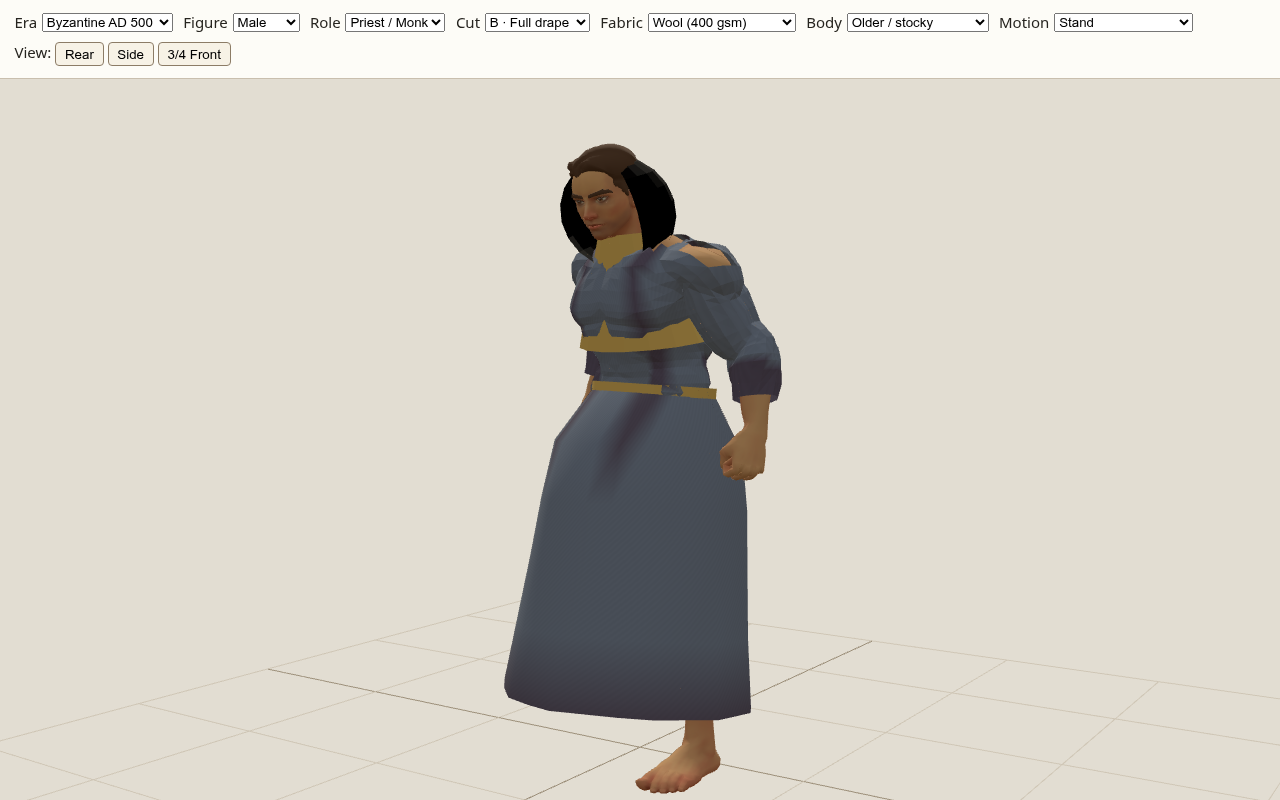
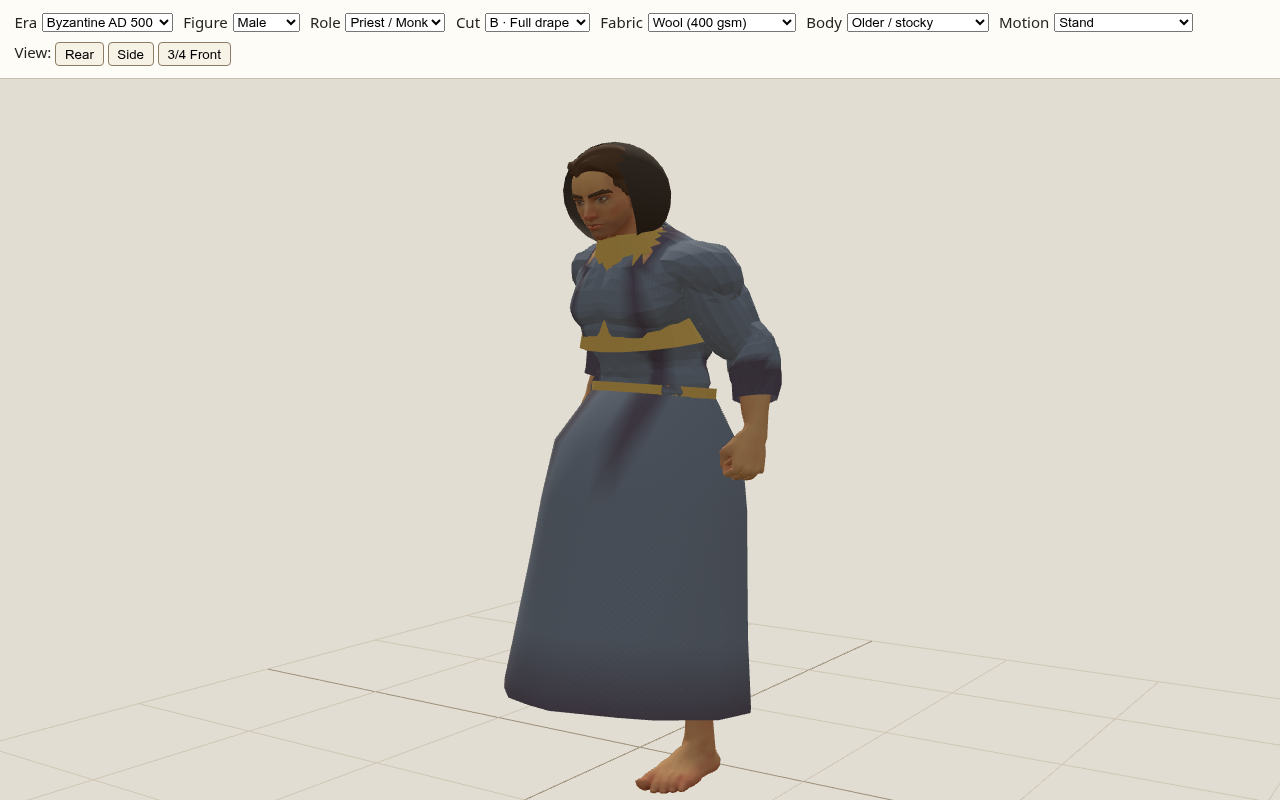
Attach spear, shield, helmet, staff, and monk cowl directly to skeleton bones and close bodice shoulder seams

Changed region(s): [[0.4375, 0.1562, 0.5938, 0.3438]]

diff --git a/src/walk/riggedCitizen.ts b/src/walk/riggedCitizen.ts
@@ -126,8 +126,12 @@ function makeOutfit(body: THREE.SkinnedMesh, era: Era, palette: Palette, gender:
   const keep: number[] = []
   for (let i = 0; i < position.count; i += 3) {
     const y = (position.getY(i) + position.getY(i + 1) + position.getY(i + 2)) / 3
+    const cx = (position.getX(i) + position.getX(i + 1) + position.getX(i + 2)) / 3
+    const cz = (position.getZ(i) + position.getZ(i + 1) + position.getZ(i + 2)) / 3
     const x = Math.max(Math.abs(position.getX(i)), Math.abs(position.getX(i + 1)), Math.abs(position.getX(i + 2)))
-    if (y > height * 0.45 && y < height * 0.845 && x < sleeveSpan) keep.push(i, i + 1, i + 2)
+    // Keep full shoulder coverage up to 0.885*height while opening a clean collar around the neck
+    const inNeck = y > height * 0.835 && Math.hypot(cx, cz) < height * 0.062
+    if (y > height * 0.45 && y < height * 0.885 && x < sleeveSpan && !inNeck) keep.push(i, i + 1, i + 2)
   }
   const top = new THREE.BufferGeometry()
   for (const key of ['position', 'normal', 'skinIndex', 'skinWeight']) {
@@ -177,9 +181,6 @@ function makeOutfit(body: THREE.SkinnedMesh, era: Era, palette: Palette, gender:
   const pelvis = body.skeleton.bones.findIndex(b => b.name === 'pelvis')
   const spine1 = body.skeleton.bones.findIndex(b => b.name === 'spine_01')
   const spine2 = body.skeleton.bones.findIndex(b => b.name === 'spine_02')
-  const headIdx = body.skeleton.bones.findIndex(b => b.name === 'Head')
-  const armL = body.skeleton.bones.findIndex(b => b.name === 'lowerarm_l')
-  const handR = body.skeleton.bones.findIndex(b => b.name === 'hand_r')
   const left = body.skeleton.bones.findIndex(b => b.name === 'thigh_l'), right = body.skeleton.bones.findIndex(b => b.name === 'thigh_r')
   for (let i = 0; i < sp.count; i++) {
     const x = sp.getX(i), y = sp.getY(i), z = sp.getZ(i)
@@ -245,24 +246,43 @@ function makeOutfit(body: THREE.SkinnedMesh, era: Era, palette: Palette, gender:
   const mantle = makeRigidSkinned(mantleGeo, spine2 >= 0 ? spine2 : pelvis, body.skeleton, body.bindMatrix, trim)
 
   // Fitted shoulder cape (paenula / birrus) resting from neck collar over shoulders (pilgrims & Byzantine clergy)
-  const capeGeo = new THREE.CylinderGeometry(waistX * 0.56, waistX * 1.18, height * 0.18, 18, 1, true)
-    .scale(1, 1, 0.82)
-    .translate(0, height * 0.785, centerZ - 0.008)
+  const capeGeo = new THREE.CylinderGeometry(waistX * 0.60, waistX * 1.32, height * 0.16, 18, 1, true)
+    .scale(1.06, 1, 1.15)
+    .translate(0, height * 0.795, centerZ + 0.018)
   const cape = makeRigidSkinned(capeGeo, spine2 >= 0 ? spine2 : pelvis, body.skeleton, body.bindMatrix, trim)
 
-  // Open-front head veil / monastic cowl: covers crown, back, and temples while keeping the face (+Z) completely open
-  const veilGeo = new THREE.SphereGeometry(height * 0.078, 14, 8, Math.PI * 0.82, Math.PI * 1.36, 0, Math.PI * 0.78)
-    .scale(1.02, 1.18, 1.08)
-    .translate(0, height * 0.905, centerZ - 0.012)
-  const veil = makeRigidSkinned(veilGeo, headIdx >= 0 ? headIdx : spine2, body.skeleton, body.bindMatrix, gender === 'f' && era === 'byzantine' ? trim : cloth)
+  const headBone = body.skeleton.bones.find(b => b.name === 'Head')
+  const lowerArmLBone = body.skeleton.bones.find(b => b.name === 'lowerarm_l')
+  const handRBone = body.skeleton.bones.find(b => b.name === 'hand_r')
+  const boneAttachments: THREE.Mesh[] = []
+  const attachToBone = (bone: THREE.Bone | undefined, geo: THREE.BufferGeometry, mat: THREE.Material, pos: [number, number, number], rot: [number, number, number] = [0, 0, 0]) => {
+    geo.computeVertexNormals()
+    const m = new THREE.Mesh(geo, mat)
+    m.position.set(...pos)
+    m.rotation.set(...rot)
+    m.castShadow = m.receiveShadow = true
+    m.frustumCulled = false
+    m.visible = false
+    if (bone) bone.add(m)
+    boneAttachments.push(m)
+    return m
+  }
 
-  // Soldier: scale/lamellar cuirass + INDEPENDENT military equipment belt (cingulum militare with pteruges) + helmet + spear + Byzantine/Greek shield
+  // Open-front head veil / monastic cowl attached directly to Head bone so it tracks head turns cleanly without covering the face
+  const veilGeo = new THREE.SphereGeometry(0.132, 16, 10, Math.PI * 0.78, Math.PI * 1.44, 0, Math.PI * 0.80)
+    .scale(1.02, 1.16, 1.06)
+  const veilMat = era === 'byzantine' && gender === 'm'
+    ? new THREE.MeshStandardMaterial({ color: '#3b332c', roughness: 0.92, side: THREE.DoubleSide })
+    : (gender === 'f' && era === 'byzantine' ? trim : cloth)
+  const veil = attachToBone(headBone, veilGeo, veilMat, [0, 0.088, -0.022])
+
+  // Soldier: scale/lamellar cuirass + INDEPENDENT military equipment belt (cingulum militare with pteruges) + bone-attached helmet, spear & shield
   const cuirassGeo = new THREE.CylinderGeometry(waistX * 1.14, waistX * 1.06, height * 0.23, 18, 1, true)
     .scale(1, 1, (waistZ / waistX) * 1.06)
     .translate(0, height * 0.725, centerZ)
   const cuirass = makeRigidSkinned(cuirassGeo, spine2 >= 0 ? spine2 : pelvis, body.skeleton, body.bindMatrix, metalMat)
 
-  // Independent military equipment belt fitted over hip crest (0.565 * height) with hanging pteruges apron strips
+  // Independent military equipment belt fitted over hip crest (0.568 * height) with hanging pteruges apron strips
   const cingulumParts: THREE.BufferGeometry[] = [
     new THREE.CylinderGeometry(1, 1, 0.046, 20, 1, true)
       .scale(waistX * 1.11, 1, waistZ * 1.12)
@@ -275,21 +295,27 @@ function makeOutfit(body: THREE.SkinnedMesh, era: Era, palette: Palette, gender:
   const cingulumGeo = mergeSimple(cingulumParts)
   const cingulum = makeRigidSkinned(cingulumGeo, pelvis, body.skeleton, body.bindMatrix, leatherMat)
 
-  const helmetGeo = new THREE.SphereGeometry(height * 0.072, 12, 6, 0, Math.PI * 2, 0, Math.PI * 0.58)
-    .scale(0.96, 1.08, 1.06)
-    .translate(0, height * 0.935, centerZ + 0.008)
-  const helmet = makeRigidSkinned(helmetGeo, headIdx >= 0 ? headIdx : spine2, body.skeleton, body.bindMatrix, metalMat)
-
-  const spearGeo = mergeSimple([
-    new THREE.CylinderGeometry(0.014, 0.016, height * 1.18, 6).translate(-waistX * 1.48, height * 0.58, centerZ + 0.08),
-    new THREE.ConeGeometry(0.028, 0.16, 4).translate(-waistX * 1.48, height * 1.21, centerZ + 0.08),
+  // Helmet attached directly to Head bone: bronze/iron dome + neck guard + brow band
+  const helmetGeo = mergeSimple([
+    new THREE.SphereGeometry(0.132, 16, 8, 0, Math.PI * 2, 0, Math.PI * 0.56).scale(0.98, 1.06, 1.08),
+    new THREE.CylinderGeometry(0.134, 0.146, 0.055, 14, 1, true, Math.PI * 0.65, Math.PI * 0.7).translate(0, -0.035, -0.015),
   ])
-  const spear = makeRigidSkinned(spearGeo, handR >= 0 ? handR : spine2, body.skeleton, body.bindMatrix, woodMat)
+  const helmet = attachToBone(headBone, helmetGeo, metalMat, [0, 0.118, -0.006])
 
-  const shieldGeo = new THREE.CylinderGeometry(height * 0.19, height * 0.19, 0.025, 14)
-    .rotateZ(Math.PI / 2)
-    .translate(waistX * 1.42, height * 0.64, centerZ + 0.05)
-  const shield = makeRigidSkinned(shieldGeo, armL >= 0 ? armL : spine2, body.skeleton, body.bindMatrix, trim)
+  // Spear gripped directly inside hand_r palm, standing upright (+Y rotated ~+150° around X so tip points cleanly UP)
+  const spearGeo = mergeSimple([
+    new THREE.CylinderGeometry(0.015, 0.017, 1.95, 8).translate(0, 0.25, 0),
+    new THREE.ConeGeometry(0.034, 0.22, 4).translate(0, 1.32, 0),
+    new THREE.CylinderGeometry(0.019, 0.019, 0.08, 8).translate(0, -0.74, 0),
+  ])
+  const spear = attachToBone(handRBone, spearGeo, woodMat, [0.02, 0.075, 0.025], [Math.PI * 0.82, 0, 0.06])
+
+  // Round/oval buckler shield strapped flush to the outer face (-X) of lowerarm_l with central boss
+  const shieldGeo = mergeSimple([
+    new THREE.CylinderGeometry(0.32, 0.32, 0.028, 18).rotateZ(Math.PI / 2),
+    new THREE.SphereGeometry(0.075, 10, 6, 0, Math.PI * 2, 0, Math.PI * 0.5).rotateZ(Math.PI / 2).translate(-0.015, 0, 0),
+  ])
+  const shield = attachToBone(lowerArmLBone, shieldGeo, trim, [-0.072, 0.13, 0.015], [0, 0.12, 0])
 
   // Porter: crossed hemp rope harness + dorsal Phrygian amphora / woven pack basket
   const porterGeo = mergeSimple([
@@ -302,12 +328,11 @@ function makeOutfit(body: THREE.SkinnedMesh, era: Era, palette: Palette, gender:
   ])
   const porterLoad = makeRigidSkinned(porterGeo, spine2 >= 0 ? spine2 : spine1, body.skeleton, body.bindMatrix, woodMat)
 
-  // Pilgrim: wooden walking staff + eulogia ampulla pouch at hip
-  const pilgrimGeo = mergeSimple([
-    new THREE.CylinderGeometry(0.015, 0.018, height * 0.92, 6).translate(-waistX * 1.42, height * 0.46, centerZ + 0.10),
-    new THREE.CylinderGeometry(0.036, 0.036, 0.022, 8).rotateX(Math.PI / 2).translate(waistX * 1.05, height * 0.54, centerZ + 0.04),
-  ])
-  const pilgrimGear = makeRigidSkinned(pilgrimGeo, pelvis, body.skeleton, body.bindMatrix, woodMat)
+  // Pilgrim: walking staff gripped in hand_r + eulogia ampulla pouch at hip
+  const pilgrimStaffGeo = new THREE.CylinderGeometry(0.016, 0.020, 1.55, 8).translate(0, 0.10, 0)
+  const pilgrimStaff = attachToBone(handRBone, pilgrimStaffGeo, woodMat, [0.02, 0.075, 0.025], [Math.PI * 0.82, 0, 0.06])
+  const pilgrimPouchGeo = new THREE.CylinderGeometry(0.038, 0.038, 0.024, 10).rotateX(Math.PI / 2).translate(waistX * 1.04, height * 0.55, centerZ + 0.04)
+  const pilgrimGear = makeRigidSkinned(pilgrimPouchGeo, pelvis, body.skeleton, body.bindMatrix, leatherMat)
 
   // Merchant belt coin pouch (marsupium) hanging cleanly at the right hip
   const pouchGeo = new THREE.SphereGeometry(0.042, 10, 8)
@@ -315,18 +340,20 @@ function makeOutfit(body: THREE.SkinnedMesh, era: Era, palette: Palette, gender:
     .translate(-waistX * 1.04, height * 0.565, centerZ + 0.035)
   const merchantPouch = makeRigidSkinned(pouchGeo, pelvis, body.skeleton, body.bindMatrix, leatherMat)
 
-  const extraMeshes = [mantle, cape, veil, cuirass, cingulum, helmet, spear, shield, porterLoad, pilgrimGear, merchantPouch]
-  extraMeshes.forEach(m => { m.visible = false })
+  const extraMeshes = [mantle, cape, cuirass, cingulum, porterLoad, pilgrimGear, merchantPouch]
+  const allExtras: THREE.Mesh[] = [...extraMeshes, ...boneAttachments]
+  allExtras.forEach(m => { m.visible = false })
 
   return {
     baseMeshes,
     extraMeshes,
-    materials: [cloth, trim, leatherMat, metalMat, woodMat],
+    boneAttachments,
+    materials: veilMat !== trim && veilMat !== cloth ? [cloth, trim, leatherMat, metalMat, woodMat, veilMat] : [cloth, trim, leatherMat, metalMat, woodMat],
     clothMat: cloth,
     trimMat: trim,
     uWeave,
     setRoleVisuals(role: CitizenRole, age: AgeGroup = 'adult') {
-      extraMeshes.forEach(m => { m.visible = false })
+      allExtras.forEach(m => { m.visible = false })
       baseMeshes[2].visible = role !== 'soldier' // soldier uses independent cingulum equipment belt
       const isYouth = age === 'child' || age === 'adolescent'
       if (role === 'resident') {
@@ -341,10 +368,11 @@ function makeOutfit(body: THREE.SkinnedMesh, era: Era, palette: Palette, gender:
         cingulum.visible = true
         helmet.visible = true
         spear.visible = true
-        shield.visible = era !== 'roman'
+        shield.visible = true
       } else if (role === 'pilgrim') {
         cape.visible = !isYouth
         pilgrimGear.visible = !isYouth
+        pilgrimStaff.visible = !isYouth
         veil.visible = !isYouth && gender === 'f' && era === 'byzantine'
       } else if (role === 'priest') {
         mantle.visible = era !== 'byzantine'
@@ -707,7 +735,7 @@ export function instantiateCitizen(model: GLTF, motions: GLTF, era: Era, palette
     dispose() {
       secondary.dispose(); mixer.stopAllAction(); mixer.uncacheRoot(content)
       ownedMaterials.forEach(m => m.dispose()); skeletons.forEach(s => s.dispose())
-      ;[...outfit.baseMeshes, ...outfit.extraMeshes].forEach(m => m.geometry.dispose())
+      ;[...outfit.baseMeshes, ...outfit.extraMeshes, ...outfit.boneAttachments].forEach(m => { m.removeFromParent(); m.geometry.dispose() })
     },
   }
 }
